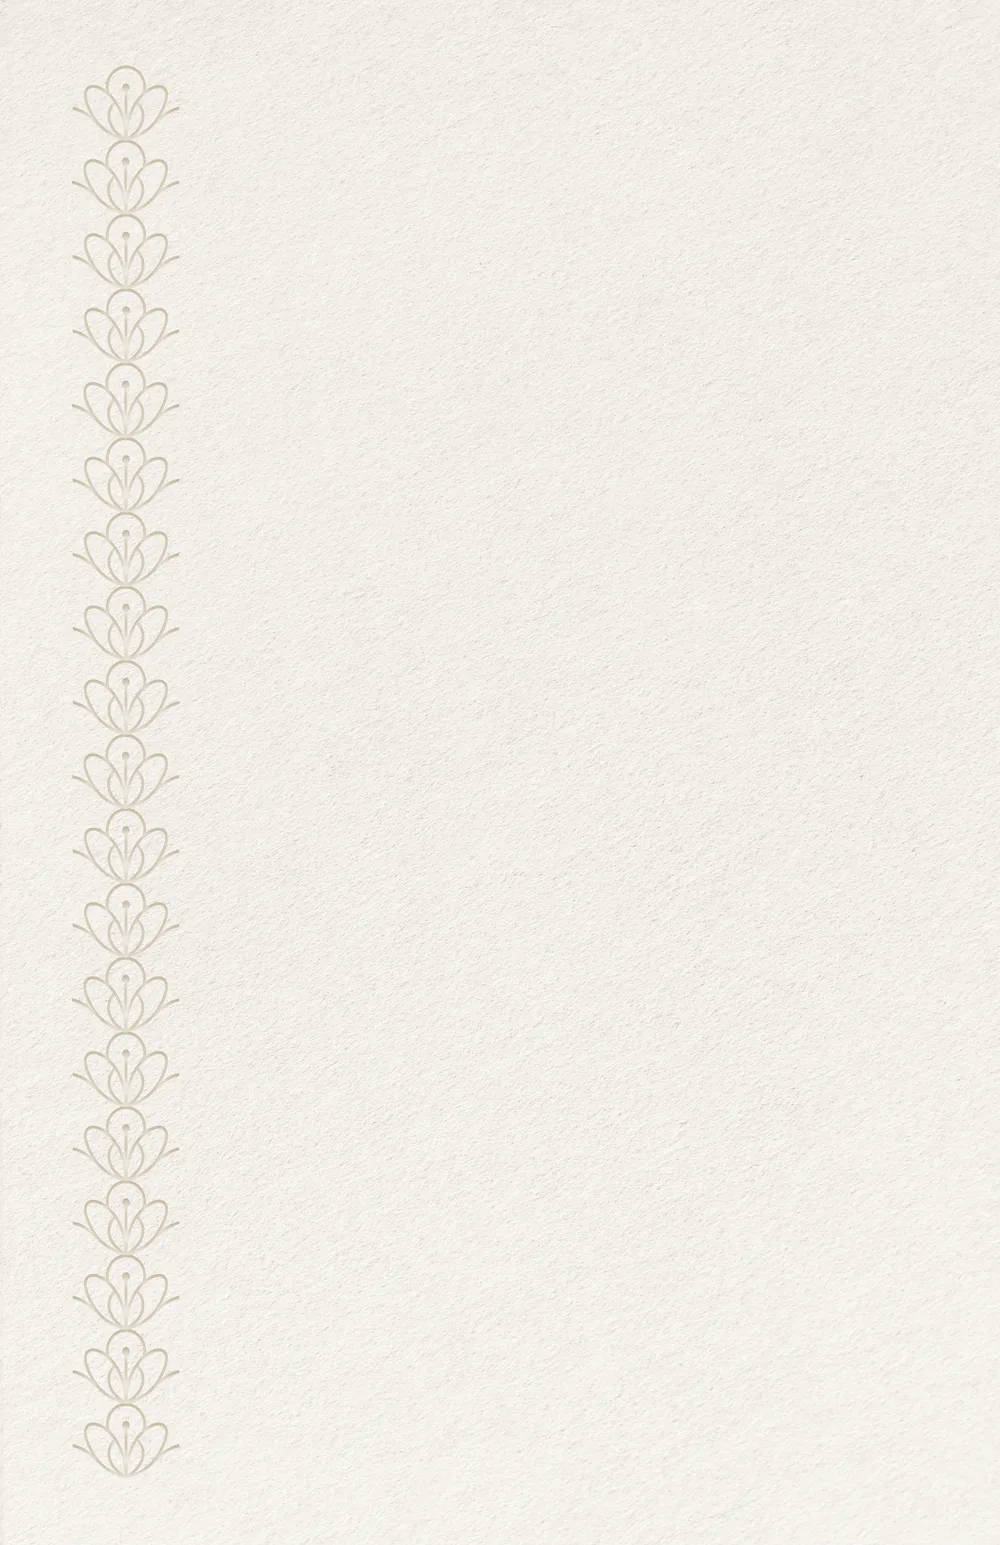
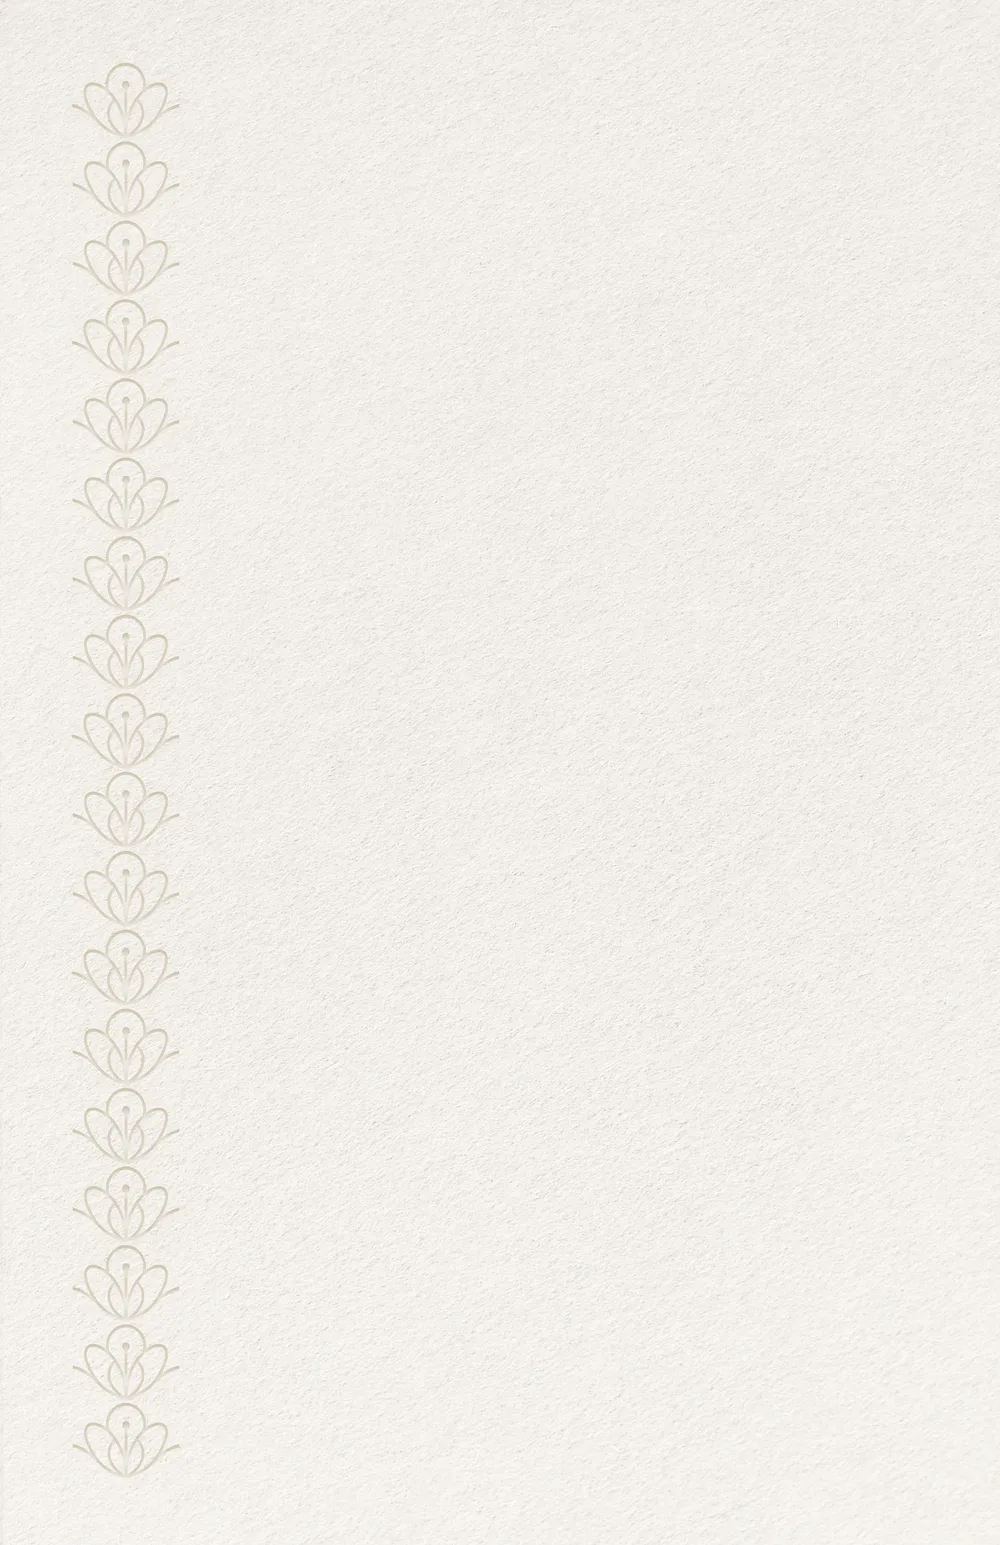
Mono Script: updated Frame 100/101/102 pictures; timeline padding-left 30cqw; softer grey registry QR codes

Changed region(s): [[0.062, 0.1243, 0.186, 0.901], [0.093, 0.0311, 0.155, 0.0932]]

diff --git a/app/templates/mono-script.css b/app/templates/mono-script.css
@@ -282,8 +282,8 @@ body:has(.inv[data-template="mono-script"]) .music-btn { color:#111; border-colo
 .inv[data-template="mono-script"] .venue-intro { font-weight:400; }
 
 /* ───────── 34. Screen 4 (timeline): frame-102.webp has a column of ornaments down its left edge, so this page's text starts further in ───────── */
-.inv[data-template="mono-script"] .tl-in { padding-left:25cqw; }
-.inv[data-template="mono-script"] .card-timeline .swipe-hint { left:25cqw; }
+.inv[data-template="mono-script"] .tl-in { padding-left:30cqw; }
+.inv[data-template="mono-script"] .card-timeline .swipe-hint { left:30cqw; }
 
 /* ───────── 35. Screen 2: the date (month + day) and the time are 18px, weight 300; weekday and year stay small ───────── */
 .inv[data-template="mono-script"] .card-sheet .dt-month, .inv[data-template="mono-script"] .card-sheet .dt-row b,
@@ -291,3 +291,6 @@ body:has(.inv[data-template="mono-script"]) .music-btn { color:#111; border-colo
 .inv[data-template="mono-script"] .card-sheet .sheet-in:not(.no-photo) .dt-month, .inv[data-template="mono-script"] .card-sheet .sheet-in:not(.no-photo) .dt-row b,
 .inv[data-template="mono-script"] .card-sheet .sheet-in:not(.no-photo) .dt-row > span:last-child:not(:first-child),
 .inv[data-template="mono-script"] .card-sheet .sheet-in.no-photo .dt-row b { font-size:calc(18px * var(--k, 1)); font-weight:300; }
+
+/* ───────── 36. Registry QR codes: softer grey instead of near-black ───────── */
+.inv[data-template="mono-script"] .qr { color:#7a7a7a; opacity:.9; }
